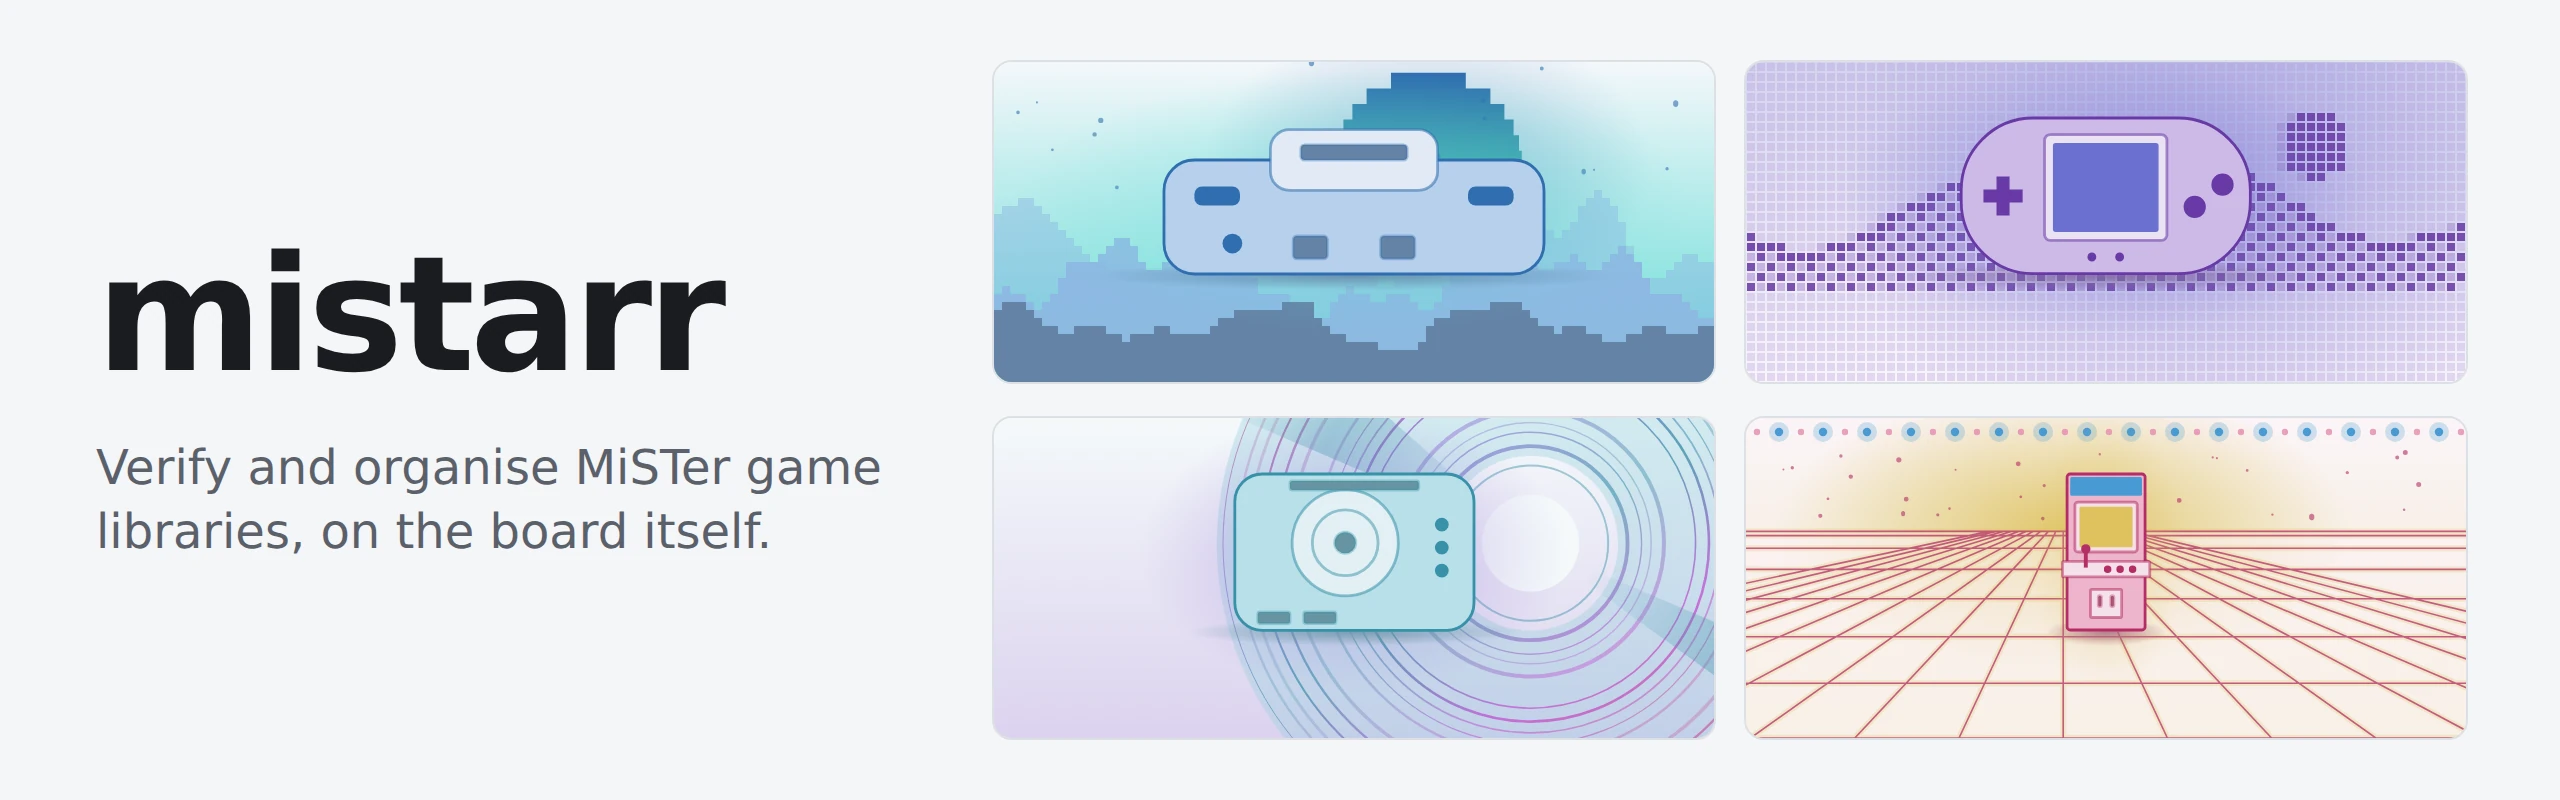
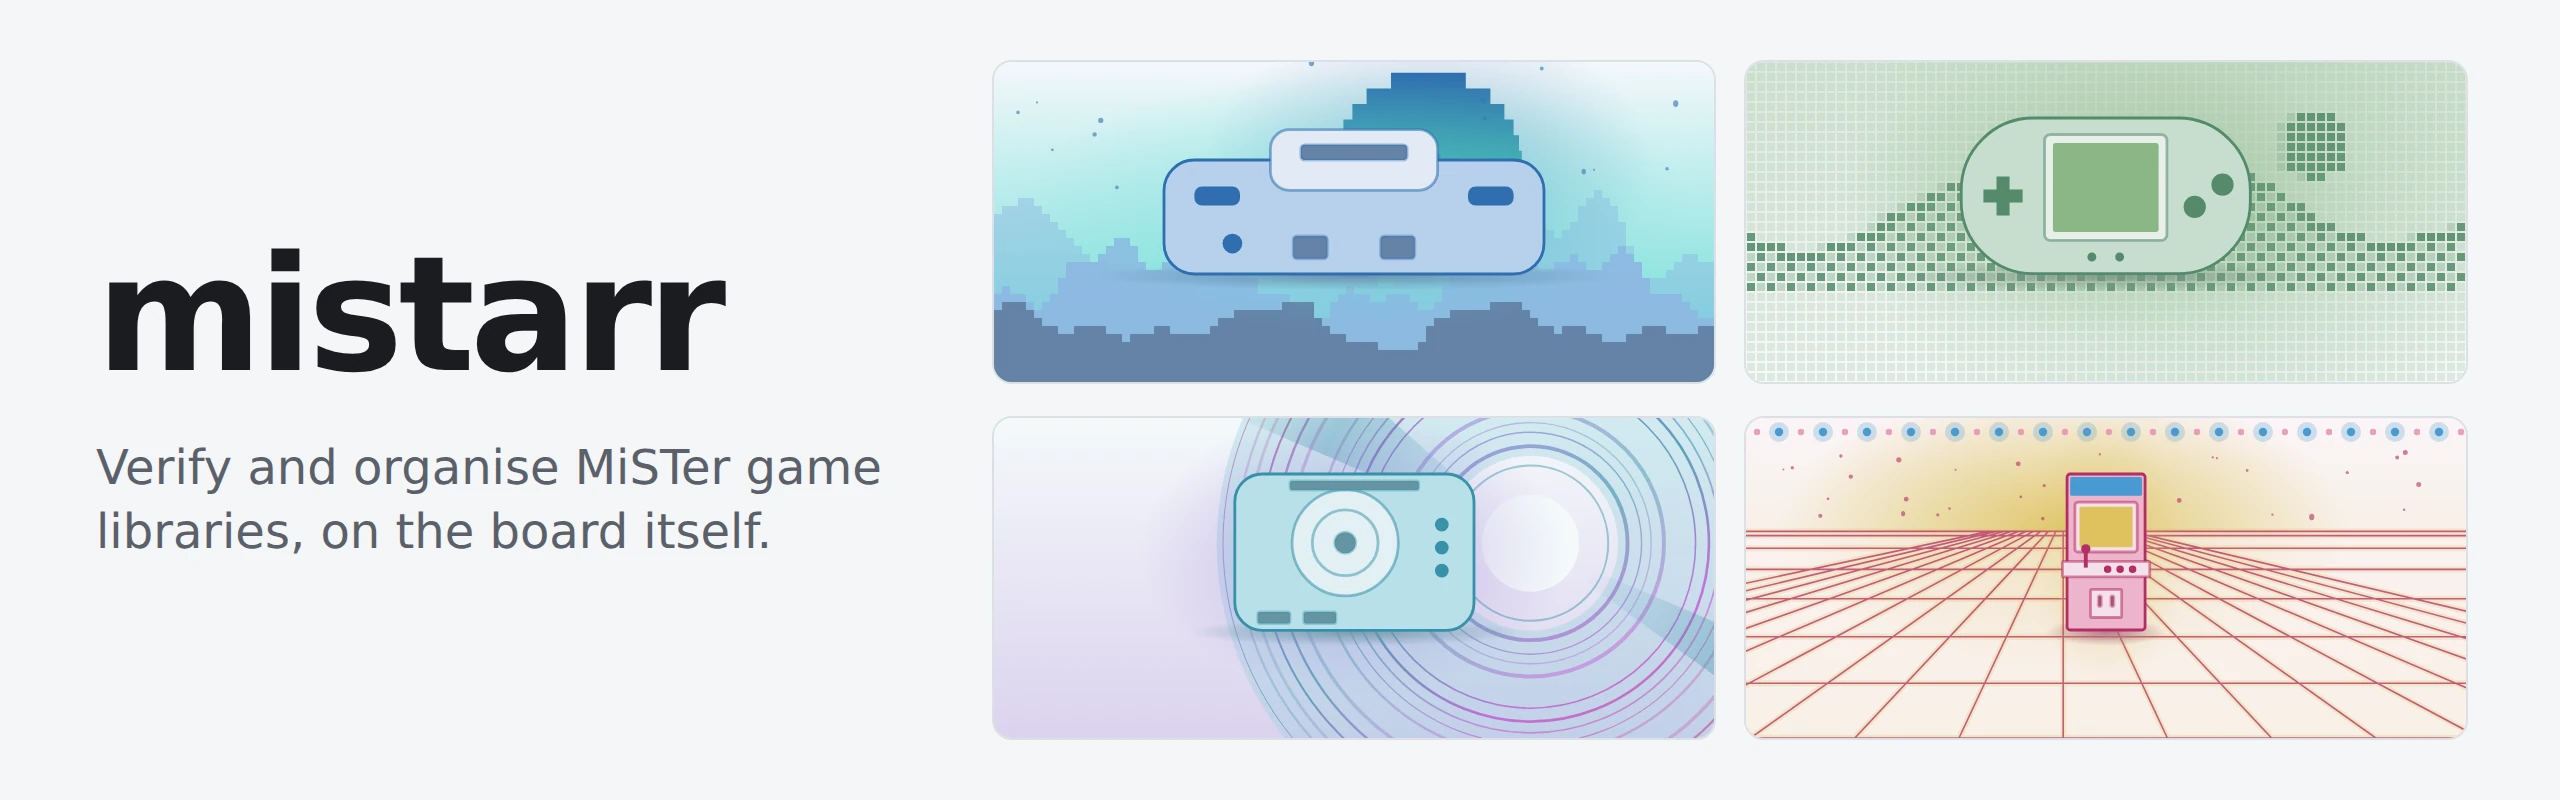
Address PR #37 review of the README showcase
- README: while a core runs, hashing, scans and placement pause and
  transfers slow to the core rate limits; they do not pause.
- Browse rows carry bios, true when every live variant is flagged bios,
  computed per page row only for groups whose flag union has the bit.
  Browse hides Want on those groups instead of showing it disabled,
  matching the Title page. API.md documents the field; a db test, the
  reference browse query and the catalog HTTP test cover it.
- Title resets to the boxart tab on navigation, so a title without art
  opened from another title's Snap tab still shows its poster.
- The gba, gbc and pokemini art moves to muted sage, brick and slate:
  those handhelds shipped in bold shell colours, and gba's violet body
  read as one of them (PRINCIPLES.md section 8). An art test holds
  their body saturation down; UI.md says why.
- The showcase scenario leaves the pirate tag out of Browse's flags.
- The banner and social preview read the theme from the app's computed
  tokens instead of copied hex values.

Every image is retaken. No dependency is added.

Changed region(s): [[0.6562, 0.0625, 0.9688, 0.5]]

diff --git a/web/e2e/readme-shots.spec.ts b/web/e2e/readme-shots.spec.ts
@@ -56,15 +56,29 @@ for (const scheme of ['dark', 'light'] as const) {
   }
 }
 
-/** Page tokens per scheme, from `app.css`. */
-const THEME = {
-  dark: { bg: '#14161a', raised: '#1d2026', fg: '#e8e9ec', dim: '#9a9fab', border: '#2c303a', l: 0 },
-  light: { bg: '#f5f6f8', raised: '#ffffff', fg: '#1a1c20', dim: '#5b606b', border: '#dde0e5', l: 1 }
-} as const;
+type Scheme = 'dark' | 'light';
+
+/** The page tokens of `app.css` as the running app computes them for `scheme`. */
+interface Theme {
+  bg: string;
+  fg: string;
+  dim: string;
+  border: string;
+  l: number;
+}
+
+async function theme(page: Page, scheme: Scheme): Promise<Theme> {
+  await page.emulateMedia({ colorScheme: scheme });
+  await page.goto('/?mock=idle#/');
+  const [bg, fg, dim, border] = await page.evaluate(() => {
+    const css = getComputedStyle(document.documentElement);
+    return ['--bg', '--fg', '--fg-dim', '--border'].map((name) => css.getPropertyValue(name).trim());
+  });
+  return { bg: bg ?? '', fg: fg ?? '', dim: dim ?? '', border: border ?? '', l: scheme === 'light' ? 1 : 0 };
+}
 
 /** A page of platform art tiles beside the project name, drawn from the art generator alone. */
-function banner(scheme: keyof typeof THEME, ids: string[], cols: number, big: boolean): string {
-  const t = THEME[scheme];
+function banner(t: Theme, ids: string[], cols: number, big: boolean): string {
   const tiles = ids
     .map((id) => {
       const kind = fixturePlatforms.find((p) => p.id === id)?.kind;
@@ -94,7 +108,7 @@ test.describe('banners', () => {
     test(`hero ${scheme}`, async ({ page }) => {
       test.skip(!dir, 'README_SHOTS_DIR is not set');
       await page.setViewportSize({ width: 1280, height: 400 });
-      await page.setContent(banner(scheme, ['snes', 'gba', 'saturn', 'arcade'], 2, false));
+      await page.setContent(banner(await theme(page, scheme), ['snes', 'gba', 'saturn', 'arcade'], 2, false));
       await page.screenshot({ path: `${dir ?? ''}/hero-${scheme}.png` });
     });
   }
@@ -106,7 +120,7 @@ test.describe('social preview', () => {
   test('social preview', async ({ page }) => {
     test.skip(!dir, 'README_SHOTS_DIR is not set');
     await page.setViewportSize({ width: 1280, height: 640 });
-    await page.setContent(banner('dark', ['nes', 'snes', 'n64', 'gba', 'saturn', 'arcade'], 2, true));
+    await page.setContent(banner(await theme(page, 'dark'), ['nes', 'snes', 'n64', 'gba', 'saturn', 'arcade'], 2, true));
     await page.screenshot({ path: `${dir ?? ''}/social-preview.png` });
   });
 });

diff --git a/web/src/routes/Browse.svelte b/web/src/routes/Browse.svelte
@@ -12,7 +12,7 @@
   import { titleUrl } from '../lib/router.svelte';
   import { api, errorMessage } from '../lib/api';
   import { showToast } from '../lib/stores/toast.svelte';
-  import { fixtureSettings } from '../lib/fixtures';
+  import { fixtureSettings, scenarioBrowseFlags } from '../lib/fixtures';
   import { getStatus, loadStatus } from '../lib/stores/status.svelte';
   import { launchBlocker } from '../lib/launch';
   import PlatformArt from '../lib/PlatformArt.svelte';
@@ -27,6 +27,7 @@
   const { platformId }: Props = $props();
 
   const isMock = import.meta.env.VITE_MOCK === '1';
+  const flagChoices: readonly string[] = isMock ? scenarioBrowseFlags() : BROWSE_FLAGS;
   /** Typing pauses this long before the search runs. */
   const SEARCH_DEBOUNCE_MS = 250;
 
@@ -210,7 +211,7 @@
     </label>
     <fieldset class="flags">
       <legend>Require flags</legend>
-      {#each BROWSE_FLAGS as flag (flag)}
+      {#each flagChoices as flag (flag)}
         <label>
           <input
             type="checkbox"
@@ -257,16 +258,18 @@
         {/if}
         <p class="name">{group.pick_name ?? group.name}</p>
         <p class="muted status">{group.have_verified > 0 ? 'Have' : 'Missing'}</p>
-        <button
-          class:primary={group.wanted > 0}
-          disabled={group.pick_id === null}
-          onclick={(e) => {
-            e.preventDefault();
-            void toggleWant(group.parent_id, group.pick_id, group.wanted);
-          }}
-        >
-          {group.wanted > 0 ? 'Wanted' : 'Want'}
-        </button>
+        {#if !group.bios}
+          <button
+            class:primary={group.wanted > 0}
+            disabled={group.pick_id === null}
+            onclick={(e) => {
+              e.preventDefault();
+              void toggleWant(group.parent_id, group.pick_id, group.wanted);
+            }}
+          >
+            {group.wanted > 0 ? 'Wanted' : 'Want'}
+          </button>
+        {/if}
       </a>
     {/each}
   </div>

diff --git a/web/src/lib/fixtures.ts b/web/src/lib/fixtures.ts
@@ -1,3 +1,4 @@
+import { BROWSE_FLAGS } from './types';
 import type {
   CoresResult,
   DatVersion,
@@ -120,6 +121,9 @@ function artFor(playlist: string, name: string) {
   };
 }
 
+/** Titles whose id ends in 9 have no cover URL, as a title the thumbnail server lacks. */
+const noArt = (id: number): boolean => id % 10 === 9;
+
 const exampleNames = [
   'Example Quest',
   'Sample Racer',
@@ -180,7 +184,8 @@ export function fixtureTitles(platformId: string, count = 60, filters: TitleFilt
       have_verified: i % 4 === 0 ? 1 : 0,
       wanted: i % 5 === 0 ? 1 : 0,
       has_pick: true,
-      art: artFor(coreDir, name)
+      bios: flags.includes('bios'),
+      art: noArt(i + 1) ? null : artFor(coreDir, name)
     });
   }
   return rows;
@@ -243,7 +248,7 @@ export function fixtureTitle(id: number): TitleDetail {
     platform_id: 'nes',
     base_name: base,
     pick_variant_id: id * 10,
-    art: artFor('Nintendo - Nintendo Entertainment System', name),
+    art: noArt(id) ? null : artFor('Nintendo - Nintendo Entertainment System', name),
     variants: [
       {
         id: id * 10,
@@ -397,6 +402,11 @@ export function scenarioStatus(): SystemStatus {
   return mockScenario() === 'showcase'
     ? { ...fixtureStatus, version: '0.1.0', corename: 'MENU', paused: false, pause_reason: null, waiting: [] }
     : fixtureStatus;
+}
+
+/** Browse's flag choices: the README showcase leaves out the `pirate` DAT tag. */
+export function scenarioBrowseFlags(): readonly string[] {
+  return mockScenario() === 'showcase' ? BROWSE_FLAGS.filter((f) => f !== 'pirate') : BROWSE_FLAGS;
 }
 
 /** Files not identified, by platform, for the Platforms card. */

diff --git a/web/e2e/screens.spec.ts b/web/e2e/screens.spec.ts
@@ -79,6 +79,24 @@ test('Play and Want are hidden for a BIOS entry even when its file is present', 
   await expect(page.getByRole('row', { name: /\(Europe\)/ }).getByRole('button', { name: 'Want' })).toHaveCount(1);
 });
 
+test('a title without art shows its poster even after the Snap tab of another', async ({ page }) => {
+  await page.goto('/#/t/1');
+  await page.getByRole('button', { name: 'Snap' }).click();
+  await page.goto('/#/t/9');
+  await expect(page.getByRole('heading', { name: 'Stub Squad' })).toBeVisible();
+  await expect(page.getByRole('button', { name: 'Snap' })).toHaveCount(0);
+  await expect(page.locator('.art').getByTestId('poster-placeholder').locator('.title')).toHaveText('Stub Squad');
+});
+
+test('a BIOS-only group in Browse offers no Want', async ({ page }) => {
+  await page.goto('/#/p/nes');
+  await page.getByLabel('bios', { exact: true }).check();
+  const cards = page.locator('.grid a.poster');
+  await expect(cards.first()).toContainText('(USA)');
+  expect(await cards.count()).toBeGreaterThan(0);
+  await expect(page.locator('.grid').getByRole('button', { name: /^Want/ })).toHaveCount(0);
+});
+
 test('the status and Want button line up across a row of posters', async ({ page }) => {
   await page.setViewportSize({ width: 1280, height: 900 });
   await page.goto('/#/p/nes');

diff --git a/web/e2e/art.spec.ts b/web/e2e/art.spec.ts
@@ -69,6 +69,15 @@ test('no handheld screen is tinted pea green', () => {
   }
 });
 
+test('handhelds sold in bold shell colours are drawn in muted tones', () => {
+  for (const id of ['gba', 'gbc', 'pokemini']) {
+    const sat = /--c9:hsl\(\d+ calc\((\d+)%/.exec(renderArt(id, undefined, 'card').svg)?.[1];
+    expect(Number(sat), `${id} body saturation`).toBeLessThanOrEqual(20);
+  }
+  const gba = hue('gba', 9);
+  expect(gba < 230 || gba > 300, `gba body hue ${gba} is not violet`).toBe(true);
+});
+
 test('art is memoised and stays small, local and free of script', () => {
   for (const id of [...ids, 'amiga', 'mystery']) {
     for (const format of formats) {

diff --git a/web/src/lib/art/generate.ts b/web/src/lib/art/generate.ts
@@ -50,11 +50,11 @@ const PLATFORMS: ReadonlyMap<string, readonly [ArtFamily, number?, number?, numb
     vectrex: ['vector'],
     gb: ['lcd', 168, 0.55, 30],
     ngp: ['lcd', 32, 0.4],
-    gbc: ['lcd', HUE.rose],
+    gbc: ['lcd', 4, 0.45],
     ws: ['lcd', 205, 0.5],
-    pokemini: ['lcd', 300, 0.45],
+    pokemini: ['lcd', 250, 0.3],
     gg: ['lcd', 196],
-    gba: ['lcd', HUE.violet],
+    gba: ['lcd', 140, 0.5],
     lynx: ['lcd', HUE.warn],
     wsc: ['lcd', HUE.coral],
     psx: ['disc', 240],

diff --git a/web/src/lib/types.ts b/web/src/lib/types.ts
@@ -112,6 +112,8 @@ export interface TitleGroup {
   have_verified: number;
   wanted: number;
   has_pick: boolean;
+  /** Every live variant is flagged `bios`, so none can be wanted. */
+  bios: boolean;
   art: ArtUrls | null;
 }
 

diff --git a/web/src/routes/Title.svelte b/web/src/routes/Title.svelte
@@ -25,6 +25,7 @@
 
   $effect(() => {
     missingArt.clear();
+    tab = 'boxart';
     clearDetail();
     void loadTitleDetail(titleId);
   });

diff --git a/crates/mistarr-server/src/db/titles.rs b/crates/mistarr-server/src/db/titles.rs
@@ -847,6 +847,8 @@ pub struct GroupRow {
     pub wanted: u64,
     /// Whether a pick exists.
     pub has_pick: bool,
+    /// Every live variant is flagged `bios`, so none can be wanted.
+    pub bios: bool,
 }
 
 /// How a search of three or more characters finds its groups; shorter ones always use
@@ -966,12 +968,18 @@ fn page_sql(clause: &Clause, sort: Sort) -> String {
         Sort::Have => "g.have_verified > 0 DESC, g.base_name COLLATE NOCASE, g.parent_id",
         Sort::Recent => "g.newest_id DESC",
     };
+    // Only groups with a BIOS variant look at their variants' flags.
     format!(
         "SELECT g.parent_id, g.platform_id, g.base_name, g.name, g.pick_id, k.name,
-                g.variants, g.have_verified, g.wanted, g.has_pick
+                g.variants, g.have_verified, g.wanted, g.has_pick,
+                CASE WHEN g.flag_union & {bios} = 0 THEN 0 ELSE NOT EXISTS (
+                    SELECT 1 FROM titles v WHERE v.group_root = g.parent_id AND v.retired = 0
+                    AND NOT EXISTS (SELECT 1 FROM title_flags f
+                                    WHERE f.title_id = v.id AND f.flag = 'bios')) END
          FROM title_groups g LEFT JOIN titles k ON k.id = g.pick_id
          WHERE {} ORDER BY {order} LIMIT ? OFFSET ?",
-        clause.sql()
+        clause.sql(),
+        bios = groups::BIOS_BIT
     )
 }
 
@@ -1077,6 +1085,7 @@ pub fn browse_with(
                 have_verified: unsigned(r.get(7)?),
                 wanted: unsigned(r.get(8)?),
                 has_pick: r.get(9)?,
+                bios: r.get(10)?,
             })
         })?
         .collect::<rusqlite::Result<_>>()?;

diff --git a/crates/mistarr-server/src/db/titles/tests.rs b/crates/mistarr-server/src/db/titles/tests.rs
@@ -696,6 +696,43 @@ fn hidden_and_flags_are_orthogonal() {
 }
 
 #[test]
+fn a_group_is_bios_only_when_every_live_variant_is_flagged_bios() {
+    let c = conn();
+    let v = plain(&c);
+    let bios_of = |c: &Connection| -> Vec<(String, bool)> {
+        browse(c, "gb", &Browse::default(), 10, 0)
+            .expect("browse")
+            .0
+            .into_iter()
+            .map(|r| (r.base_name, r.bios))
+            .collect()
+    };
+    assert_eq!(
+        bios_of(&c),
+        [
+            ("Example Quest".to_owned(), false),
+            ("Example System".to_owned(), true),
+            ("Other Tale".to_owned(), false)
+        ]
+    );
+    add(
+        &c,
+        v,
+        "[BIOS] Other Tale (USA)",
+        Some("Other Tale (Europe)"),
+        &[("b.bin", "good")],
+    );
+    link_parents(&c, v, false).expect("link");
+    recompute_platform(&c, "gb", &Prefs::default()).expect("recompute");
+    let tale = bios_of(&c).into_iter().find(|(n, _)| n == "Other Tale");
+    assert_eq!(
+        tale,
+        Some(("Other Tale".to_owned(), false)),
+        "one plain variant is enough"
+    );
+}
+
+#[test]
 fn detail_lists_variants_roms_files_and_sources() {
     let c = conn();
     plain(&c);

diff --git a/crates/mistarr-server/src/db/groups/tests.rs b/crates/mistarr-server/src/db/groups/tests.rs
@@ -201,7 +201,10 @@ fn reference_browse(
     let items = c
         .prepare(&format!(
             "SELECT g.parent_id, g.platform_id, g.base_name, g.name, g.pick_id, k.name,
-                    g.variants, g.have_verified, g.wanted, g.has_pick
+                    g.variants, g.have_verified, g.wanted, g.has_pick,
+                    NOT EXISTS (SELECT 1 FROM titles v WHERE v.group_root = g.parent_id
+                        AND v.retired = 0 AND NOT EXISTS (SELECT 1 FROM title_flags f
+                            WHERE f.title_id = v.id AND f.flag = 'bios'))
              FROM reference_groups g LEFT JOIN titles k ON k.id = g.pick_id
              WHERE {REFERENCE_BROWSE_WHERE} AND {REFERENCE_MRA_ONLY} ORDER BY {order} LIMIT ?8 OFFSET ?9"
         ))
@@ -218,6 +221,7 @@ fn reference_browse(
                 have_verified: u64::try_from(r.get::<_, i64>(7)?).unwrap_or(0),
                 wanted: u64::try_from(r.get::<_, i64>(8)?).unwrap_or(0),
                 has_pick: r.get(9)?,
+                bios: r.get(10)?,
             })
         })
         .expect("query")

diff --git a/crates/mistarr-server/src/db/groups.rs b/crates/mistarr-server/src/db/groups.rs
@@ -12,6 +12,9 @@ pub const KNOWN_FLAGS: [&str; 9] = [
     "unl", "pirate", "baddump", "bios", "beta", "proto", "demo", "sample", "program",
 ];
 
+/// The bit of the `bios` flag in the group summary.
+pub const BIOS_BIT: i64 = 1 << 3;
+
 /// The bits of the flags `prefs.hide` holds by default, the highest known bits; a
 /// group's `lean_flags` has none of them exactly when a live variant carries none.
 pub const HIDDEN_BY_DEFAULT: i64 = KNOWN_FLAG_MASK & !0b111;
@@ -63,6 +66,7 @@ const COLUMNS: &str = "parent_id, platform_id, base_name, name, variants, have_v
 /// use mistarr_server::db::groups::flag_bit;
 /// assert_eq!(flag_bit("unl"), Some(1));
 /// assert_eq!(flag_bit("bios"), Some(8));
+/// assert_eq!(flag_bit("bios"), Some(mistarr_server::db::groups::BIOS_BIT));
 /// assert_eq!(flag_bit("BIOS"), None);
 /// ```
 #[must_use]
